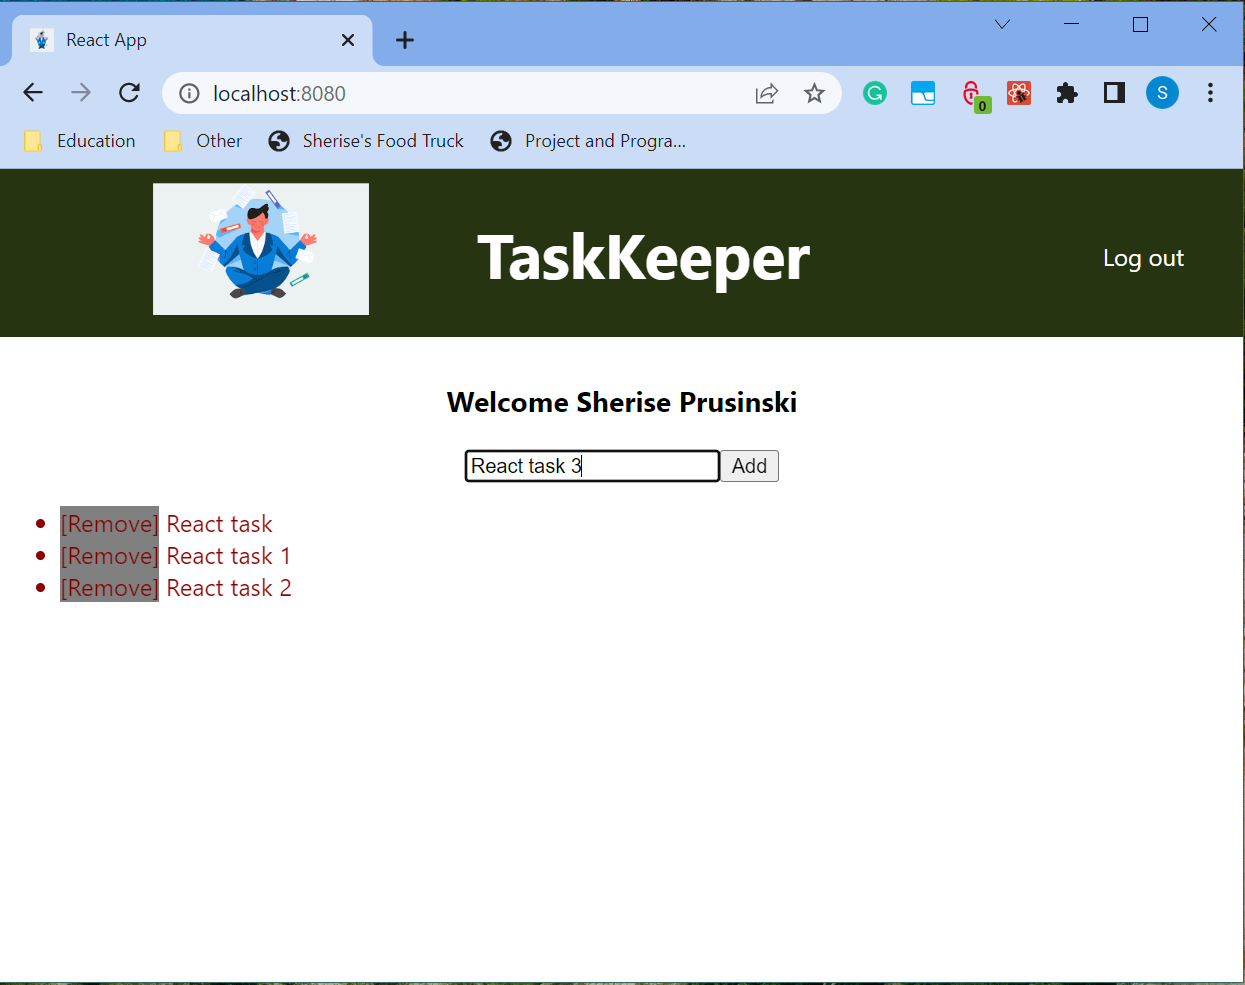
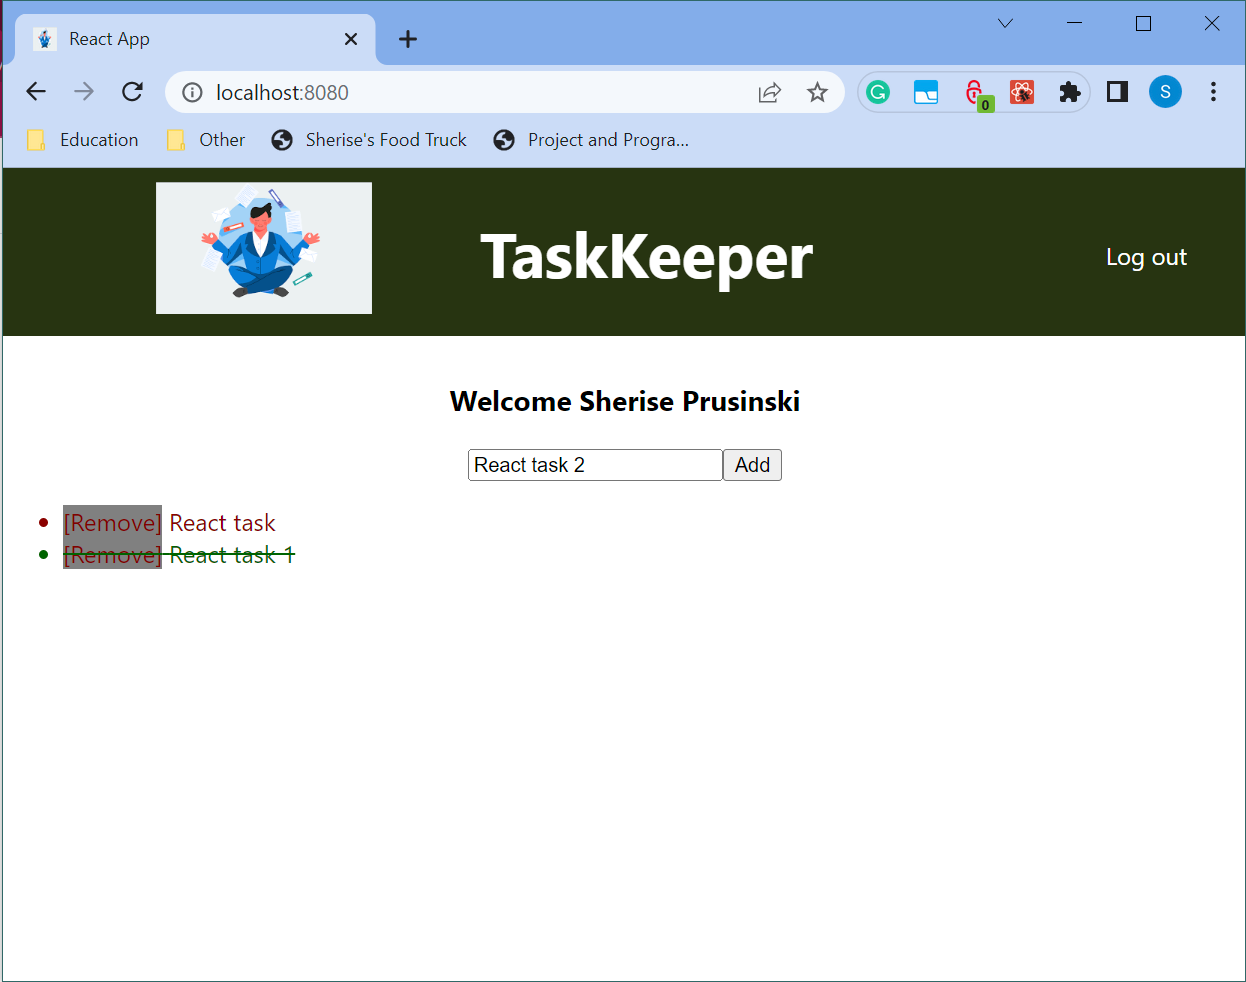
Project 2 completed

diff --git a/README.md b/README.md
@@ -34,18 +34,18 @@ back-end will provide the following REST APIs :
 
 
 front-end will provide the web user-interface to use these back-end APIs as a user-friendly and intuitive ReactJS based web-application.
-back-end runs on http://localhost:8081 endpoint
-front-end runs on http://localhost:8080 endpoint
+<b>back-end</b> runs on http://localhost:8081 endpoint
+<b>front-end</b> runs on http://localhost:8080 endpoint
 Postman REST requests are part of TaskKeeper.postman_collection.json for both sides of endpoints to test independently of the application.
 
-Demo :
+<u>Demo</u> : 
 
 to run the program go to the repository root directory
 
 1) to run back-end server : npm run back-end
 2) to run front-end client : npm run front-end
 
-Screenshots:
+<u>Screenshots</u>:
 
 1. <b> Register as a hew user</b>By clicking on the Register between Home and Login links at the right top corner of the screen <br>
 ![Alt text](demo/Register.png?raw=true "Logging in as a user") <br>
@@ -53,16 +53,16 @@ Screenshots:
 2. <b> Logging in as a user</b>By clicking on the Login link next to Home and Register links at the right top corner of the screen <br>
 ![Alt text](demo/Login.png?raw=true "Logging in as a user") <br>
 
-3. <b> Adding a new task</b>  : A new task description can be entered in the input textbox and by clicking Add button<br>
-![Alt text](demo/AddTask.png?raw=true "Add Task") <br>
-
-4. <b> Get all tasks</b>  : Upon logging into the application already existing tasks created by user in the completed or non-completed state can be retrieved<br>
+3. <b> Get all tasks</b>  : Upon logging into the application already existing tasks created by user in the completed or non-completed state can be retrieved<br>
 ![Alt text](demo/GetAllTasks.png?raw=true "Get All Tasks") <br>
 
-5. <b> Updating a task</b> : By clicking on task text it can be marked as complete<br>
+4. <b> Adding a new task</b>  : A new task description can be entered in the input textbox and by clicking Add button<br>
+![Alt text](demo/AddTask.png?raw=true "Add Task") <br>
+
+5. <b> Updating a task</b> : By clicking on task description text, it can be marked as complete or toggled back to uncompleted state<br>
 ![Alt text](demo/UpdatedTask.png?raw=true "Updating A Task") <br>
 
-6. <b> Deleting a task</b> By clicking on the X next to it a task can be deleted<br>
+6. <b> Deleting a task</b> By clicking on the [Remove] button preceeding the task description, a task can be deleted<br>
 ![Alt text](demo/DeletedTask.png?raw=true "Deleting A Task") <br>
 
 7. <b> Logging out as a user</b> By clicking on the Log out link at the right top corner of the screen<br>
